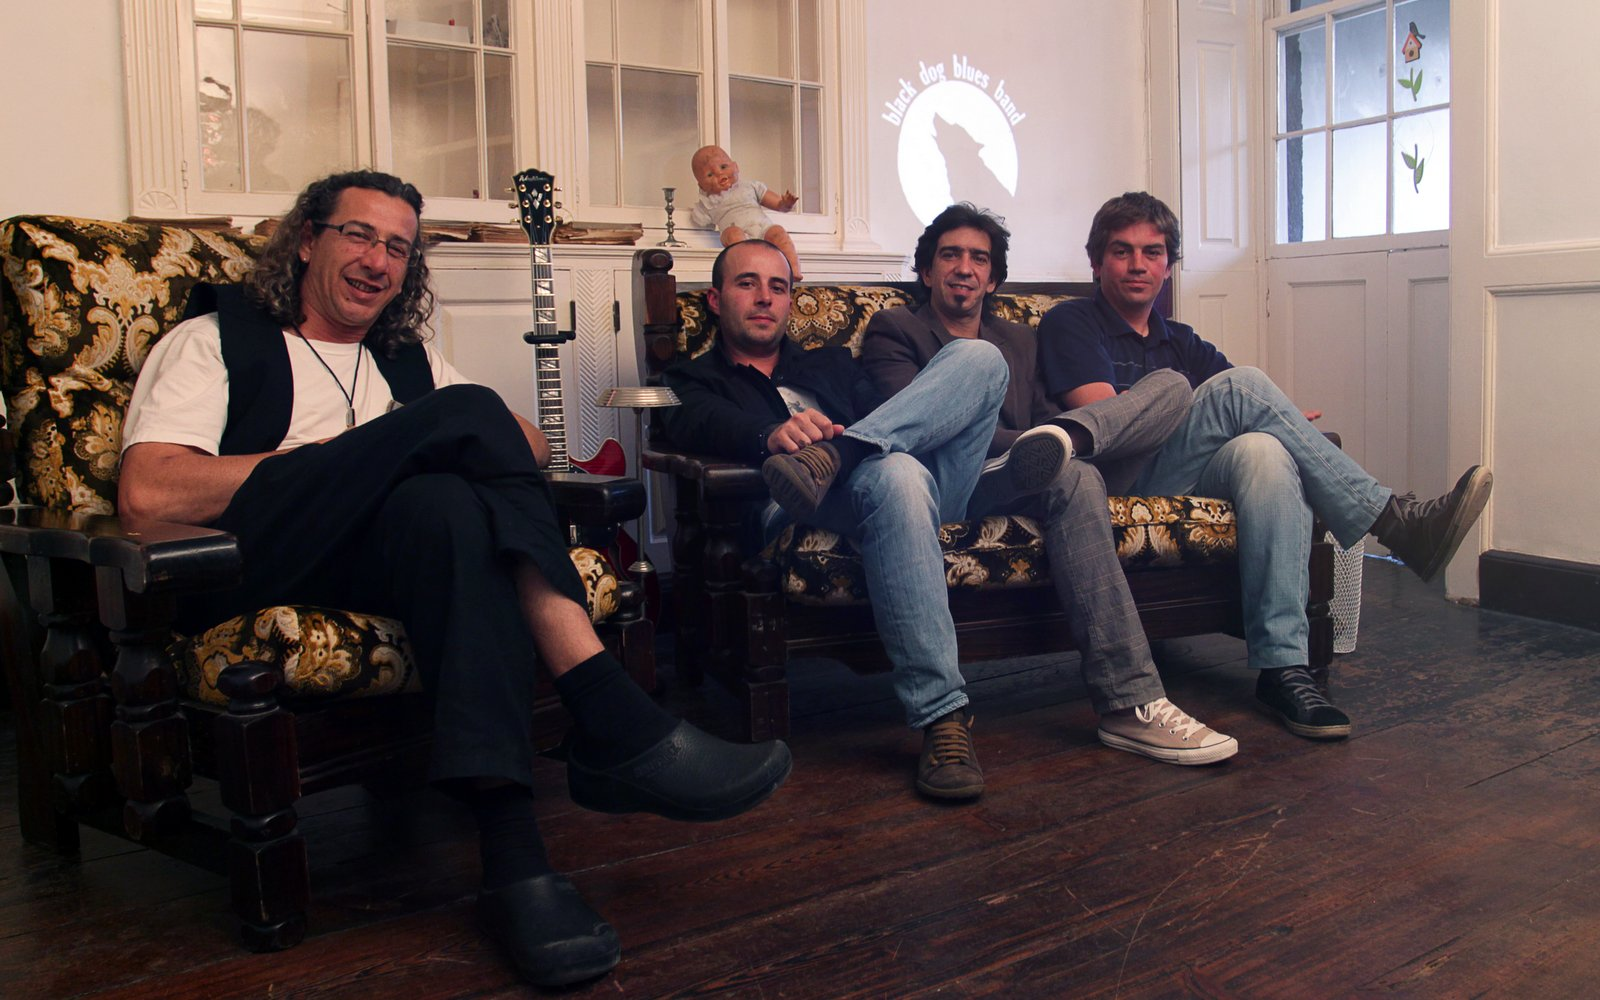
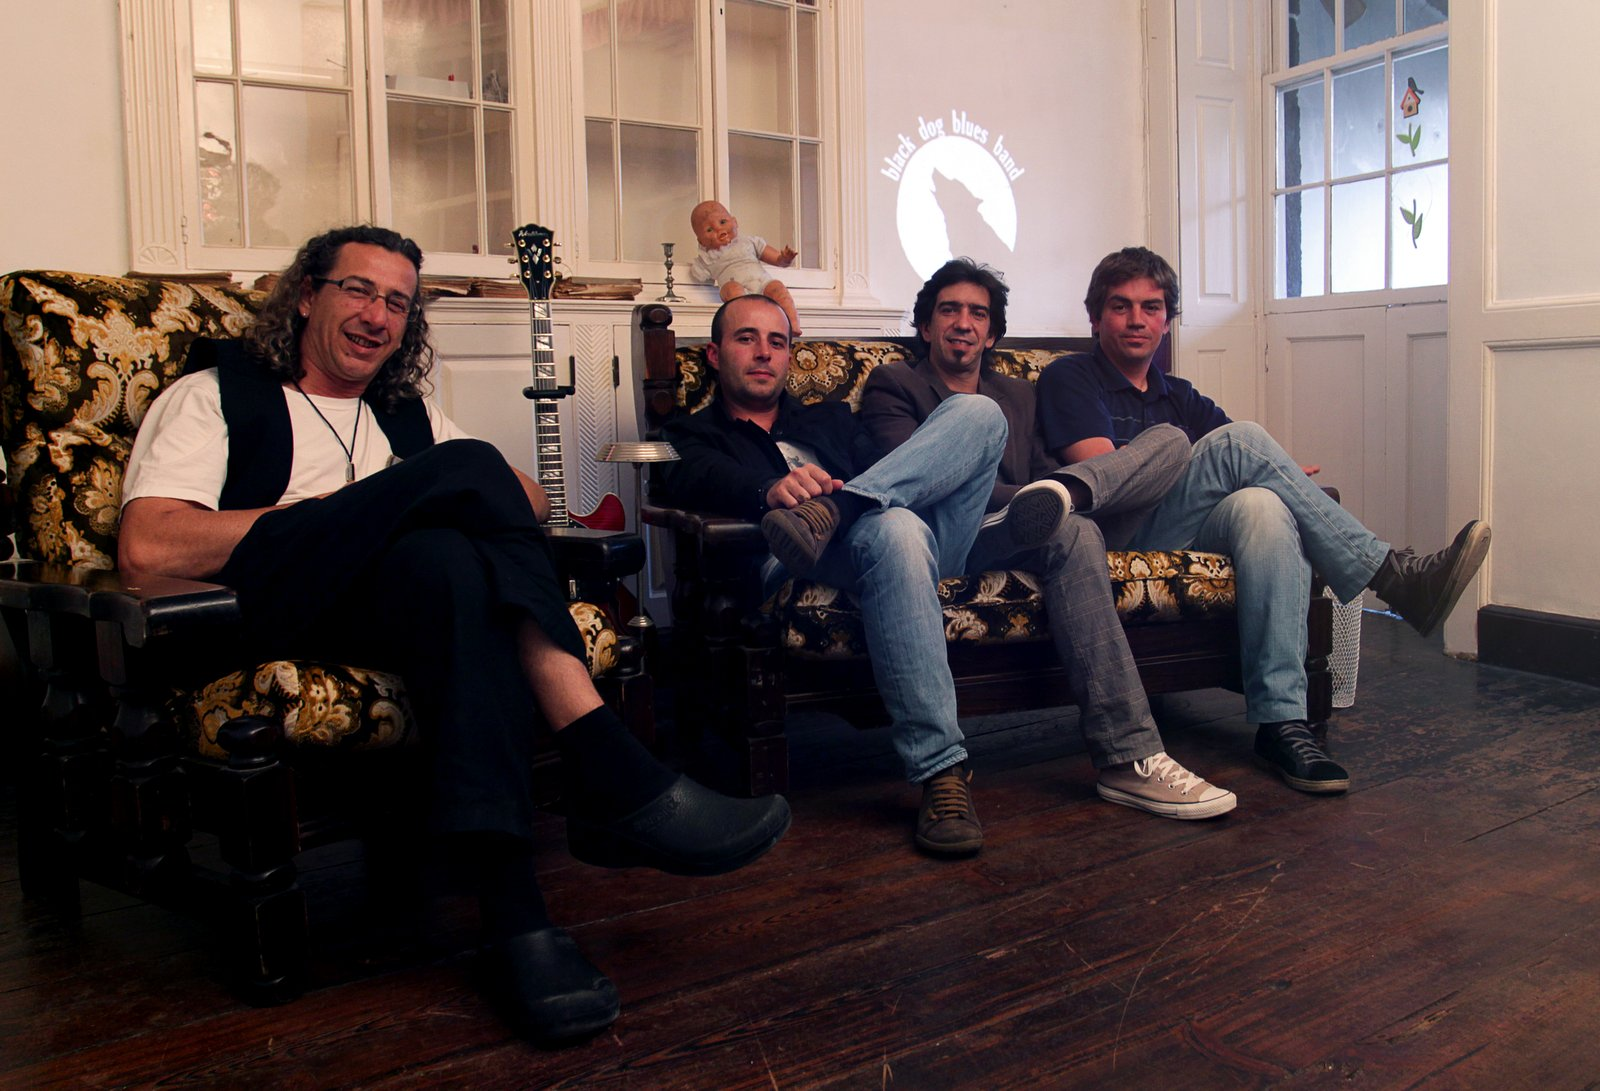
Adjusted background

diff --git a/css/style.css b/css/style.css
@@ -1,1 +1,1 @@
-html,body,div,span,applet,object,iframe,h1,h2,h3,h4,h5,h6,p,blockquote,pre,a,abbr,acronym,address,big,cite,code,del,dfn,em,img,ins,kbd,q,s,samp,small,strike,strong,sub,sup,tt,var,b,u,i,center,dl,dt,dd,ol,ul,li,fieldset,form,label,legend,table,caption,tbody,tfoot,thead,tr,th,td,article,aside,canvas,details,embed,figure,figcaption,footer,header,hgroup,menu,nav,output,ruby,section,summary,time,mark,audio,video{margin:0;padding:0;border:0;font:inherit;font-size:100%;vertical-align:baseline}html{line-height:1}ol,ul{list-style:none}table{border-collapse:collapse;border-spacing:0}caption,th,td{text-align:left;font-weight:normal;vertical-align:middle}q,blockquote{quotes:none}q:before,q:after,blockquote:before,blockquote:after{content:"";content:none}a img{border:none}article,aside,details,figcaption,figure,footer,header,hgroup,main,menu,nav,section,summary{display:block}.left{float:left}.right{float:right}.clear{clear:both}.red{color:#FF0000}a{text-decoration:underline;color:#ccc}a:hover{color:#aaa}img{border:0}.addthis_toolbox{width:350px;float:right;margin:20px 10px}body{background:url("/img/back2.jpg") center center no-repeat fixed;background-size:cover;color:#fff;font:13px normal Arial, Helvetica, sans-serif}.wrapper{width:100%;margin:0 auto}@media (min-width: 961px){.wrapper{width:960px}}header{position:relative;height:72px;background-color:black}header #main-logo{float:left;margin:2px 0 0 10px;width:65px;height:65px}header #main-title{float:left;margin:12px 0 0 10px;width:160px;font-family:Verdana, Geneva, Arial, Helvetica, sans-serif;font-weight:bold;text-transform:uppercase;font-size:20px;line-height:22px}@media (min-width: 768px) and (max-width: 960px){header{height:82px}header #main-logo{margin:5px 5px 0px 10px;width:75px;height:75px}header #main-title{margin:15px 0 0;width:190px;font-size:26px;line-height:28px}}@media (min-width: 961px){header{position:absolute;z-index:100;background:none}header #main-logo{margin:20px 5px 20px 10px;width:110px;height:110px}header #main-title{margin:20px 0;width:173px;font-size:32px;line-height:28px}}@media (min-width: 1041px){header #main-logo{margin:20px 5px 20px -30px;width:130px;height:130px}header #main-title{width:160px;font-size:36px;line-height:33px}}@media (min-width: 1121px){header #main-logo{margin:20px 10px 20px -70px;width:146px;height:146px}header #main-title{width:160px;font-size:41px;line-height:37px}}@media (min-width: 1201px){header #main-logo{margin:20px 10px 20px -110px;width:156px;height:156px}header #main-title{width:160px;font-size:46px;line-height:39px}}@media (min-width: 1280px){header #main-logo{margin:20px 10px 20px -160px}}aside{position:relative;width:100%;clear:both}aside.hidden{display:none}aside ul{display:block;padding:0}aside ul li{list-style:none}aside ul li a{display:block;margin:0;padding:10px 80px 10px 20px;border-top:1px solid #aaa;color:#f0f0f0;background:#000 url("../img/icons-sprite.png") no-repeat right -97px;font-size:16px;font-weight:800;cursor:pointer;text-transform:uppercase;text-decoration:none}aside ul li a:hover,aside ul li a.active{color:#333;background:#f0f0f0}@media (min-width: 481px){aside.hidden{display:block}aside ul{background:rgba(0,0,0,0.9);text-align:center;border-top:1px solid #666;padding:10px 0}aside ul li{display:inline-block}aside ul li a{border-top:none;display:inline-block;padding:4px 8px;background:none}}@media (min-width: 661px) and (max-width: 960px){aside{position:absolute;top:0;right:0;clear:none;float:right;width:65%;margin:0}aside ul{border:none}aside ul a{padding:4px 14px}}@media (min-width: 768px) and (max-width: 960px){aside{margin:8px 0}}@media (min-width: 961px){aside{clear:both;float:left;width:230px;margin:200px 0 0 10px}aside ul{background:none;text-align:left;border:none}aside ul li{margin:4px 0 0}aside ul li a{background:rgba(0,0,0,0.9);padding:12px 55px 10px 20px;font-size:20px}}@media (min-width: 1041px){aside{margin-top:235px}}@media (min-width: 1121px){aside{margin-top:270px}}@media (min-width: 1201px){aside{margin-top:305px}}@media (min-width: 1280px){aside{margin-top:340px}}#main-container{min-height:320px}@media (min-width: 661px){#main-container{min-height:0}}#main-content{position:relative;width:100%;padding:1px 20px 20px;background:rgba(0,0,0,0.9);box-sizing:border-box;-moz-box-sizing:border-box}#main-content h1{font-size:26px;font-weight:bold;margin:20px 0 15px}#main-content img.framed{border:6px solid #fff;margin:0px 10px 10px}#main-content img.framed.nomargin{margin:0px 0px 10px}@media (max-width: 480px){img.small50{width:50%}}@media (max-width: 768px){#main-content .home-block{clear:both}}@media (max-width: 960px){#main-content{border-top:1px solid #333}}@media (min-width: 769px){#main-content .home-block.bio{float:left;width:50%}#main-content .home-block.dates{float:right;width:46%}#main-content .home-block.photos{clear:both}}@media (min-width: 961px){#main-content{width:700px;float:right;margin:20px 10px 0}}.event{margin:10px 0 25px 0}.event .date{float:left;width:44px;padding:0 20px 10px 0}.event .date .day{font-size:38px;font-weight:bold;text-align:center}.event .date .month{font-size:22px;font-weight:bold;text-align:center;line-height:14px}h3,.event .title{font-size:18px;font-weight:bold;margin:5px 0 5px 0}h3{margin-bottom:10px}p,.event .text{color:#ccc;font-size:14px;line-height:18px}p{margin-bottom:10px}.btn-navbar{position:absolute;z-index:100px;top:14px;right:15px;display:block;width:40px;height:40px;border-radius:8px;cursor:pointer;background:#0e0e0e linear-gradient(#151515, #040404) repeat-x scroll 0% 0%/auto padding-box border-box;box-shadow:rgba(255,255,255,0.09804) 0px 1px 0px 0px inset,rgba(255,255,255,0.07451) 0px 1px 0px 0px;outline:#fff none 0px}.btn-navbar:hover{background:#222}.btn-navbar span{display:block;margin:7px 6px;height:4px;background:#999;border-radius:3px}@media (min-width: 481px){.btn-navbar{display:none}}.closeFrame{position:absolute;display:block;right:15px;top:15px;width:19px;height:19px;background:url("/img/close.png") 0 0px no-repeat;cursor:pointer;text-decoration:none}.closeFrame:hover{background:url("/img/close.png") 0 -19px no-repeat}.closeFrame:active{background:url("/img/close.png") 0 0px no-repeat}.dog_button{clear:both;display:block;margin:10px 0 15px;padding:5px 10px;background:#fff;color:#000;text-decoration:none;text-transform:uppercase;cursor:pointer;font-weight:bold;font-size:14px}.dog_button img{margin-bottom:-3px}.dog_button:hover{background:#000;color:#fff}.dog_button:active{background:#fff;color:#000}.dog_button.biggermargin{margin-top:20px}.one-sheet{display:block;float:left;text-align:center;margin:0 30px 0 0;font-size:11px;text-decoration:none}.one-sheet img{margin-bottom:5px}#flickrGallery{margin:0;padding:0;width:100%;box-sizing:border-box;-moz-box-sizing:border-box}#flickrGallery li{list-style:none;display:block;float:left;width:31%;text-align:center;padding:3px}#flickrGallery li a{display:block;padding:5px;background:#f0f0f0;overflow:hidden;color:#666;text-decoration:none;text-align:center;font-size:11px}#flickrGallery li img{height:60px}@media (min-width: 481px){#flickrGallery li img{height:75px}}@media (min-width: 600px){#flickrGallery li{width:23%}#flickrGallery li img{height:75px}}@media (min-width: 640px){#flickrGallery li{width:19%}#flickrGallery li img{height:70px}}@media (min-width: 680px){#flickrGallery li{width:19%}#flickrGallery li img{height:75px}}@media (max-width: 480px){.addthis_toolbox{display:none}}@media (min-width: 481px) and (max-width: 660px){.addthis_toolbox{position:fixed;float:right;top:-10px;right:0px;width:40%}}#contactForm{font-size:14px;color:#ccc}#contactForm input[type="text"],#contactForm input[type="email"]{padding:5px;margin:5px 0 10px;width:200px;font-size:14px;border:0;border-radius:2px;background:#f0f0f0}#contactForm textarea{padding:5px;margin:3px 0 10px;width:350px;height:90px;font-size:14px;border:0;border-radius:2px;background:#f0f0f0}#contactForm input[type="submit"]{margin:10px 0 0;padding:5px 10px;background:#fff;color:#000;text-decoration:none;text-transform:uppercase;cursor:pointer;font-weight:bold;font-size:14px;border:0}#contactForm input[type="submit"]:hover{background:#000;color:#fff}#cf_sending{display:none;font-weight:bold;margin:10px 0 0}footer{width:100%;background:#000;position:fixed;bottom:0;padding:0;margin:0;color:#aaa;font-size:11px;text-transform:uppercase}footer .social{padding:10px 10px 0;text-align:center}footer .social img{margin:0px 2px}footer .copy{padding:8px;text-align:center}footer .copy span{display:block}footer .copy a{color:#aaa;font-weight:bold;text-decoration:none}footer .copy a:hover{color:#aaa;text-decoration:underline}@media (min-width: 481px){footer .social{float:left;text-align:left}footer .copy{float:right;text-align:right}}@media (min-width: 661px){.footer-clear{height:50px}}@media (min-width: 769px){footer .social{padding:7px}footer .copy{padding:14px 10px}footer .copy span{display:inline-block}}@media (min-width: 961px){footer .wrapper{width:960px;margin:0 auto}}ul.backchoice{margin:0 0 0 10px;padding:6px 0 0;width:200px;display:none}ul.backchoice li{list-style:none;float:left;width:20px;background:#ddd;color:#000;margin:0 3px 0 0;padding:4px 1px 3px;font-size:14px;font-weight:bold;text-align:center;cursor:pointer}ul.backchoice li.active,ul.backchoice li:hover{background:#000;color:#fff}
+html,body,div,span,applet,object,iframe,h1,h2,h3,h4,h5,h6,p,blockquote,pre,a,abbr,acronym,address,big,cite,code,del,dfn,em,img,ins,kbd,q,s,samp,small,strike,strong,sub,sup,tt,var,b,u,i,center,dl,dt,dd,ol,ul,li,fieldset,form,label,legend,table,caption,tbody,tfoot,thead,tr,th,td,article,aside,canvas,details,embed,figure,figcaption,footer,header,hgroup,menu,nav,output,ruby,section,summary,time,mark,audio,video{margin:0;padding:0;border:0;font:inherit;font-size:100%;vertical-align:baseline}html{line-height:1}ol,ul{list-style:none}table{border-collapse:collapse;border-spacing:0}caption,th,td{text-align:left;font-weight:normal;vertical-align:middle}q,blockquote{quotes:none}q:before,q:after,blockquote:before,blockquote:after{content:"";content:none}a img{border:none}article,aside,details,figcaption,figure,footer,header,hgroup,main,menu,nav,section,summary{display:block}.left{float:left}.right{float:right}.clear{clear:both}.red{color:#FF0000}a{text-decoration:underline;color:#ccc}a:hover{color:#aaa}img{border:0}.addthis_toolbox{width:350px;float:right;margin:20px 10px}body{background:url("/img/back2.jpg") center center no-repeat fixed;background-size:cover;color:#fff;font:13px normal Arial, Helvetica, sans-serif}.wrapper{width:100%;margin:0 auto}@media (min-width: 961px){.wrapper{width:960px}}header{position:relative;height:72px;background-color:black}header #main-logo{float:left;margin:2px 0 0 10px;width:65px;height:65px}header #main-title{float:left;margin:12px 0 0 10px;width:160px;font-family:Verdana, Geneva, Arial, Helvetica, sans-serif;font-weight:bold;text-transform:uppercase;font-size:20px;line-height:22px}@media (min-width: 768px) and (max-width: 960px){header{height:82px}header #main-logo{margin:5px 5px 0px 10px;width:75px;height:75px}header #main-title{margin:15px 0 0;width:190px;font-size:26px;line-height:28px}}@media (min-width: 961px){header{position:absolute;z-index:100;background:none}header #main-logo{margin:20px 5px 20px 10px;width:110px;height:110px}header #main-title{margin:20px 0;width:173px;font-size:32px;line-height:28px}}@media (min-width: 1041px){header #main-logo{margin:20px 5px 20px -30px;width:130px;height:130px}header #main-title{width:160px;font-size:36px;line-height:33px}}@media (min-width: 1121px){header #main-logo{margin:20px 10px 20px -70px;width:146px;height:146px}header #main-title{width:160px;font-size:41px;line-height:37px}}@media (min-width: 1201px){header #main-logo{margin:20px 10px 20px -110px;width:156px;height:156px}header #main-title{width:160px;font-size:46px;line-height:39px}}@media (min-width: 1280px){header #main-logo{margin:20px 10px 20px -160px}}aside{position:relative;width:100%;clear:both}aside.hidden{display:none}aside ul{display:block;padding:0}aside ul li{list-style:none}aside ul li a{display:block;margin:0;padding:10px 80px 10px 20px;border-top:1px solid #aaa;color:#f0f0f0;background:#000 url("../img/icons-sprite.png") no-repeat right -97px;font-size:16px;font-weight:800;cursor:pointer;text-transform:uppercase;text-decoration:none}aside ul li a:hover,aside ul li a.active{color:#333;background:#f0f0f0}@media (min-width: 481px){aside.hidden{display:block}aside ul{background-color:#000;text-align:center;border-top:1px solid #666;padding:10px 0}aside ul li{display:inline-block}aside ul li a{border-top:none;display:inline-block;padding:4px 8px;background:none}}@media (min-width: 661px) and (max-width: 960px){aside{position:absolute;top:0;right:0;clear:none;float:right;width:65%;margin:0}aside ul{border:none}aside ul a{padding:4px 14px}}@media (min-width: 768px) and (max-width: 960px){aside{margin:8px 0}}@media (min-width: 961px){aside{clear:both;float:left;width:230px;margin:200px 0 0 10px}aside ul{background:none;text-align:left;border:none}aside ul li{margin:4px 0 0}aside ul li a{background-color:#000;padding:12px 55px 10px 20px;font-size:20px}}@media (min-width: 1041px){aside{margin-top:235px}}@media (min-width: 1121px){aside{margin-top:270px}}@media (min-width: 1201px){aside{margin-top:305px}}@media (min-width: 1280px){aside{margin-top:340px}}#main-container{min-height:320px}@media (min-width: 661px){#main-container{min-height:0}}#main-content{position:relative;width:100%;padding:1px 20px 20px;background:rgba(0,0,0,0.9);box-sizing:border-box;-moz-box-sizing:border-box}#main-content h1{font-size:26px;font-weight:bold;margin:20px 0 15px}#main-content img.framed{border:6px solid #fff;margin:0px 10px 10px}#main-content img.framed.nomargin{margin:0px 0px 10px}@media (max-width: 480px){img.small50{width:50%}}@media (max-width: 768px){#main-content .home-block{clear:both}}@media (max-width: 960px){#main-content{border-top:1px solid #333}}@media (min-width: 769px){#main-content .home-block.bio{float:left;width:50%}#main-content .home-block.dates{float:right;width:46%}#main-content .home-block.photos{clear:both}}@media (min-width: 961px){#main-content{width:700px;float:right;margin:20px 10px 0}}.event{margin:10px 0 25px 0}.event .date{float:left;width:44px;padding:0 20px 10px 0}.event .date .day{font-size:38px;font-weight:bold;text-align:center}.event .date .month{font-size:22px;font-weight:bold;text-align:center;line-height:14px}h3,.event .title{font-size:18px;font-weight:bold;margin:5px 0 5px 0}h3{margin-bottom:10px}p,.event .text{color:#ccc;font-size:14px;line-height:18px}p{margin-bottom:10px}.btn-navbar{position:absolute;z-index:100px;top:14px;right:15px;display:block;width:40px;height:40px;border-radius:8px;cursor:pointer;background:#0e0e0e linear-gradient(#151515, #040404) repeat-x scroll 0% 0%/auto padding-box border-box;box-shadow:rgba(255,255,255,0.09804) 0px 1px 0px 0px inset,rgba(255,255,255,0.07451) 0px 1px 0px 0px;outline:#fff none 0px}.btn-navbar:hover{background:#222}.btn-navbar span{display:block;margin:7px 6px;height:4px;background:#999;border-radius:3px}@media (min-width: 481px){.btn-navbar{display:none}}.closeFrame{position:absolute;display:block;right:15px;top:15px;width:19px;height:19px;background:url("/img/close.png") 0 0px no-repeat;cursor:pointer;text-decoration:none}.closeFrame:hover{background:url("/img/close.png") 0 -19px no-repeat}.closeFrame:active{background:url("/img/close.png") 0 0px no-repeat}.dog_button{clear:both;display:block;margin:10px 0 15px;padding:5px 10px;background:#fff;color:#000;text-decoration:none;text-transform:uppercase;cursor:pointer;font-weight:bold;font-size:14px}.dog_button img{margin-bottom:-3px}.dog_button:hover{background:#000;color:#fff}.dog_button:active{background:#fff;color:#000}.dog_button.biggermargin{margin-top:20px}.one-sheet{display:block;float:left;text-align:center;margin:0 30px 0 0;font-size:11px;text-decoration:none}.one-sheet img{margin-bottom:5px}#flickrGallery{margin:0;padding:0;width:100%;box-sizing:border-box;-moz-box-sizing:border-box}#flickrGallery li{list-style:none;display:block;float:left;width:31%;text-align:center;padding:3px}#flickrGallery li a{display:block;padding:5px;background:#f0f0f0;overflow:hidden;color:#666;text-decoration:none;text-align:center;font-size:11px}#flickrGallery li img{height:60px}@media (min-width: 481px){#flickrGallery li img{height:75px}}@media (min-width: 600px){#flickrGallery li{width:23%}#flickrGallery li img{height:75px}}@media (min-width: 640px){#flickrGallery li{width:19%}#flickrGallery li img{height:70px}}@media (min-width: 680px){#flickrGallery li{width:19%}#flickrGallery li img{height:75px}}@media (max-width: 480px){.addthis_toolbox{display:none}}@media (min-width: 481px) and (max-width: 660px){.addthis_toolbox{position:fixed;float:right;top:-10px;right:0px;width:40%}}#contactForm{font-size:14px;color:#ccc}#contactForm input[type="text"],#contactForm input[type="email"]{padding:5px;margin:5px 0 10px;width:200px;font-size:14px;border:0;border-radius:2px;background:#f0f0f0}#contactForm textarea{padding:5px;margin:3px 0 10px;width:350px;height:90px;font-size:14px;border:0;border-radius:2px;background:#f0f0f0}#contactForm input[type="submit"]{margin:10px 0 0;padding:5px 10px;background:#fff;color:#000;text-decoration:none;text-transform:uppercase;cursor:pointer;font-weight:bold;font-size:14px;border:0}#contactForm input[type="submit"]:hover{background:#000;color:#fff}#cf_sending{display:none;font-weight:bold;margin:10px 0 0}footer{width:100%;background:#000;position:fixed;bottom:0;padding:0;margin:0;color:#aaa;font-size:11px;text-transform:uppercase}footer .social{padding:10px 10px 0;text-align:center}footer .social img{margin:0px 2px}footer .copy{padding:8px;text-align:center}footer .copy span{display:block}footer .copy a{color:#aaa;font-weight:bold;text-decoration:none}footer .copy a:hover{color:#aaa;text-decoration:underline}@media (min-width: 481px){footer .social{float:left;text-align:left}footer .copy{float:right;text-align:right}}@media (min-width: 661px){.footer-clear{height:50px}}@media (min-width: 769px){footer .social{padding:7px}footer .copy{padding:14px 10px}footer .copy span{display:inline-block}}@media (min-width: 961px){footer .wrapper{width:960px;margin:0 auto}}ul.backchoice{margin:0 0 0 10px;padding:6px 0 0;width:200px;display:none}ul.backchoice li{list-style:none;float:left;width:20px;background:#ddd;color:#000;margin:0 3px 0 0;padding:4px 1px 3px;font-size:14px;font-weight:bold;text-align:center;cursor:pointer}ul.backchoice li.active,ul.backchoice li:hover{background:#000;color:#fff}

diff --git a/scss/modules/_menu.scss b/scss/modules/_menu.scss
@@ -40,7 +40,7 @@ aside {
       display: block;
     }
     ul {
-      background: rgba(0,0,0,0.9);
+      background-color: #000;
       text-align: center;
       border-top: 1px solid #666;
       padding: 10px 0;
@@ -91,7 +91,7 @@ aside {
       li {
         margin: 4px 0 0;
         a {
-          background: rgba(0,0,0,0.9);
+          background-color: #000;
           padding: 12px 55px 10px 20px;
           font-size: 20px;
         }
